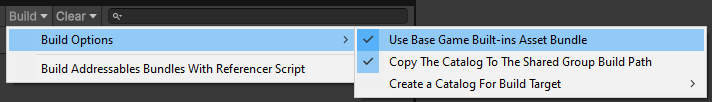
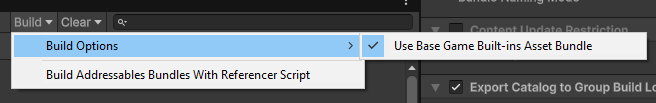
Documentation

diff --git a/Documentation~/Addressables Referencer Usage.md b/Documentation~/Addressables Referencer Usage.md
@@ -16,8 +16,8 @@ Table of contents
 - [Addressables Build](#addressables-build)
     - [Build Options](#build-options)
         - [Use Base Game Builtins Asset Bundle](#use-base-game-builtins-asset-bundle)
-        - [Copy The Catalog To The Shared Group Build Path](#copy-the-catalog-to-the-shared-group-build-path)
-        - [Create a Catalog For Build Target](#create-catalog-for-build-target)
+        - [Export Catalog To Build Location Schema](#export-catalog-to-build-location-schema)
+        - [Multi Target Setup](#multi-target-setup)
     - [Build Addressables with References](#build-the-addressables-bundles-with-references)
 - [Limitations and Caveats](#limitations-and-caveats)
     - [Game Version not Matching](#game-version-not-matching)
@@ -67,7 +67,10 @@ This can be either the actual game installation, or the `Assets/StreamingAssets[
 
 ![alt text](Images/Set-StreamingAssets-Folder.png)
 
-Once selected, the package will generate Addressable Groups that match the game's bundle structure. These groups are locked as "Read-Only" so that no asset can be manually assigned to them. 
+Once selected, the package will generate Addressable Groups that match the game's AssetBundle structure. These groups are locked as "Read-Only" so that no asset can be manually assigned to them. (Since they **will not** be shipped).
+
+> [!TIP]
+> Avoid editing the Reference Groups schemas to avoid complications.
 
 ![alt text](Images/StreamingAssets-Path.png)![alt text](Images/Newly-Made-Groups.png)
 
@@ -103,33 +106,46 @@ Addressables referencer build options are available on the right side of the Ref
 
 This option is used to tell the build pipeline whether it should create references to the base game's `<md4hash>_unitybuiltinassets.bundle` or not, usually you will want this to be `true` as it will make the referenced default shader work for every BuildTarget.
 ![alt text](Images/Build-Base-Builtins.png)
-
 This option should be set to `false` if the scenes and assets you build into bundles need more builtin assets than what the base game provides.
 
-#### Copy The Catalog To The Shared Group Build Path
+#### Export Catalog To Build Location Schema
 
-This option defines whether the catalog generated by the Build Pipeline will get copied to the `Shared Bundle Settings` group's build path.
-![alt text](Images/Copy-Catalog.png)
-![alt text](Images/Addressables-Top-Settings-Shared-Bundle-Settings.png)
+Use the `Export Catalog To Build Location` schema to generate and copy a new catalog to the Addressable Group's `BuildPath` defined in the `BundledAssetGroupSchema`.
 
-If enabled, you will find the files `catalog-[BuildTarget].bin` and `catalog-[BuildTarget].hash` at the Shared build path.
+![alt text](Images/Export-Catalog-Schema.png)
+
 
 ![alt text](Images/Example-Output-1.png)
 
-The currently active BuildProfile's `BuildTarget` is always included in the build process.
+The following Addressable Group categories will be included in the catalog:
+1. The Addressable Group that the Export Schema belongs to.
+2. All the Addressable Groups that use the exact same `Build & Load Variable` (in the `BundledAssetGroupSchema`) whether these groups have an Export Catalog schema.
+3. The Addressable Group selected as the `Shared Group` in the Addressables Top Settings (Usually the default)
+4. All Addressable groups that do not have an Export Schema (Consider them "Common groups").
 
-This option works in tandem with [Create a Catalog For Build Target](#create-a-catalog-for-build-target)
+> [!CAUTION]
+> The hierarchy presented above means that "Common" addressable groups (4th level) **must not** depend on assets found in a group with a catalog export schema (1st & 2nd levels). Likewise, it is unadivsable for an asset in the Shared Group (3rd level) to depend on an asset above in the hierarchy.
 
-#### Create a Catalog For Build Target
+> [!IMPORTANT] 
+> Due to the existence of the `monoscripts.bundle` and `unitybuiltinassets.bundle` that get built into the Shared group location, it will be necessary to **always** ship the Shared Group output to the game you want to mod either as a "Core Library" or as part of a main mod so that these bundles are available to all mods you build. This also means that all your mods must be updated at once when you do a release build to keep the data of these bundles consistent.
 
-This option defines a list of currently available `BuildTarget` for which a catalog will be processed and copied to the shared bundle build path as described just above.
+> [!IMPORTANT]
+> Addressable Groups with `Local`, `Remote` or `Custom` Build & Load Path variables will not get a catalog export even if they have a schema. Use a specific variable for each group you want to export.
 
-![alt text](Images/Target-options2.png)
+#### Multi Target Setup
+
+If your setup allows it you can export the catalog for multiple `BuildTarget` at once. 
+The currently active BuildProfile's `BuildTarget` is always included in the build process and cannot be removed.
+![alt text](Images/Multiple-Targets.png)
+> [!CAUTION]
+> Using this option doesn't specifically rebuilds assets for the selected build targets. Only the Active Build Target selected for the project. If you need assets to be rebuilt from one platform to another (possibly shaders), you **will** need to have separate build process for each target.
+
 ![alt text](Images/Multiple-Catalogs.png)
 
 Once you have all your catalogs generated, its up to you to load the right one for the platform using [Addressables' interface](https://docs.unity3d.com/Packages/com.unity.addressables@3.1/api/UnityEngine.AddressableAssets.Addressables.LoadContentCatalogAsync.html)
 
-NB: The `BuildTarget` is usually hardcoded in the Addressables paths and isn't easily reversed from the platform. A manual Switch/Case for it on `Application.Platform` is probably the easiest method.
+> [!NOTE]
+> The `BuildTarget` is usually hardcoded in the Addressables paths and isn't easily reversed from the platform. A manual Switch/Case for it on `Application.Platform` is probably the easiest method.
 
 ### Build the Addressables Bundles with References
 
@@ -153,18 +169,21 @@ Ensure the version you are working on is up to date with the current state of th
 
 ### Modifying Base Game Assets
 
-Using Addressables Referencer, you are required not to edit referenced assets and their dependencies, any modifications will either get ignored at runtime (because the asset you modified isn't shipped with your bundles) or will create issues for the objects you referenced the assets for because they won't be able to find the objects/components it needs. 
+> [!CAUTION]
+> Using Addressables Referencer, you are required not to edit referenced assets and their dependencies, any modifications will either get ignored at runtime (because the asset you modified isn't shipped with your bundles) or will create issues for the objects you referenced the assets for because they won't be able to find the objects/components it needs. 
 
 ### Shaders
 
-If you are shipping new shaders with your bundles, you will probably need to disable the `Create a Catalog For Build Target` option for anything other than the current active `BuildTarget` so that the shaders can be properly compiled for the target. In that case, you will need to do a separate Addressables build for every target your mod will support.
+As mentionned in the [Catalog Export](#export-catalog-to-build-location-schema) section, it might necessary to rebuild Shaders or different objects with different `BuildTarget`. In that case, disable the multi-catalog setup and do an Addressable build while changing the Active Build Target each time.
 
 ### AssetRipper export quirks
 
-Sometimes with AssetRipper, you might encounter a case with Sprites where it creates both a .asset `Sprite` and a .png `Texture2D` for a single sprite. However, the `Texture2D` asset can hold the same `Sprite` as a sub-asset. In that case, the Sprite might appear incorrectly at runtime if the Addressable Asset is the .png `Texture2D` and its subasset `Sprite` when the actual asset being referenced is the .asset.
+Sometimes with AssetRipper, you might encounter a case with Sprites where it creates both a .asset `Sprite` and a .png `Texture2D` for a single sprite. However, the `Texture2D` asset can hold the same `Sprite` as a sub-asset. In that case, the Sprite might appear incorrectly at runtime if the Addressable Asset is the .png `Texture2D` and its subasset `Sprite` when the actual asset being referenced in a `SpriteAtlas` is the .asset.
 
 ![alt text](Images/AssetRipper-Special-Cases.png)
 
 There are a few solutions to this:
 - Make the .asset `Sprite` addressable as well in one of your own bundles.
 - Replace the .asset `Sprite` references in the project by references to the `Texture2D` sub-asset version
+
+If there are no subasset, make the .asset `Sprite` Addressable.

diff --git a/README.md b/README.md
@@ -4,17 +4,39 @@ Addressables Referencer is an editor package providing a way to create bundles t
 
 The tool is primarily aimed at game modding to access directly the base game assets without repackaging and distributing them as part of your mod. 
 
+## Why this project
+
+This project was initialy started to allow Hollow Knight: Silksong mods with Asset Bundles created in Unity (Like custom scenes) to get a direct access to their in-game dependencies. As Silksong exclusively uses Addressables for managing assets .
+
+This solves several issues at once:
+- Mod size is drastically reduced: The bundles only ship the necessary data to function and the rest is directly fetched from the game. (See the 99% reduction below on a vanilla scene)
+    - Faster loads
+    - Less memory overhead
+- Many assets in scenes make use of GameManager/SceneManager/AudioManager singletons, some of which couldn't be properly accessed when building scenes without references.
+- Copyright issues, probably
+![alt text](Documentation~/Images/AD9SR%20rationale.png)
+
 ## Installation
 
 The easiest method to install is to use the package manager's "Install from Git url feature". 
 
-![alt text](Documentation~/Images/Install-Git.png)
+The project is comprised of 3 Branches, only [Addressables-3](https://github.com/al3ks1s/AddressablesReferencer/tree/Addressables-3) and [Addressables-4](https://github.com/al3ks1s/AddressablesReferencer/tree/Addressables-4) contain a functionnal build script. The main branch only supports the analyzer and GUI.
+
+This is due to Addressables V4 changing the internal version of the catalog, making the ones generated with Addressables 3 and lower incompatible with v4 and vice-versa.
+
+#### Install specific branch
+```
+v3:
+https://github.com/al3ks1s/AddressablesReferencer.git#Addressables-3
+v4:
+https://github.com/al3ks1s/AddressablesReferencer.git#Addressables-4
+
+```
+![alt text](Documentation~/Images/Install-From-Git.png)
 
 ## Usage
 
 See [Addressables Referencer Usage](./Documentation~/Addressables%20Referencer%20Usage.md)
-
-## How does it work
 
 ##
 This software is not sponsored by or affiliated with Unity Technologies or its affiliates. "Unity" is a registered trademark of Unity Technologies or its affiliates in the U.S. and elsewhere.

diff --git a/CHANGELOG.md b/CHANGELOG.md
@@ -1,0 +1,9 @@
+## v1.0.0
+
+## v0.1.0
+
+First milestone release of the tool. Read documentation for details.
+
+The next developement efforts will be focused on the new Addressable v4 version. v4 is not backward compatible with earlier versions of Catalogs so the features developed for v4 will be backported to v3 afterward. With both branches being maintained at the same time.
+
+Main branch will be authoritative on changes common to the two build script branches (GUI & Analyzer).
